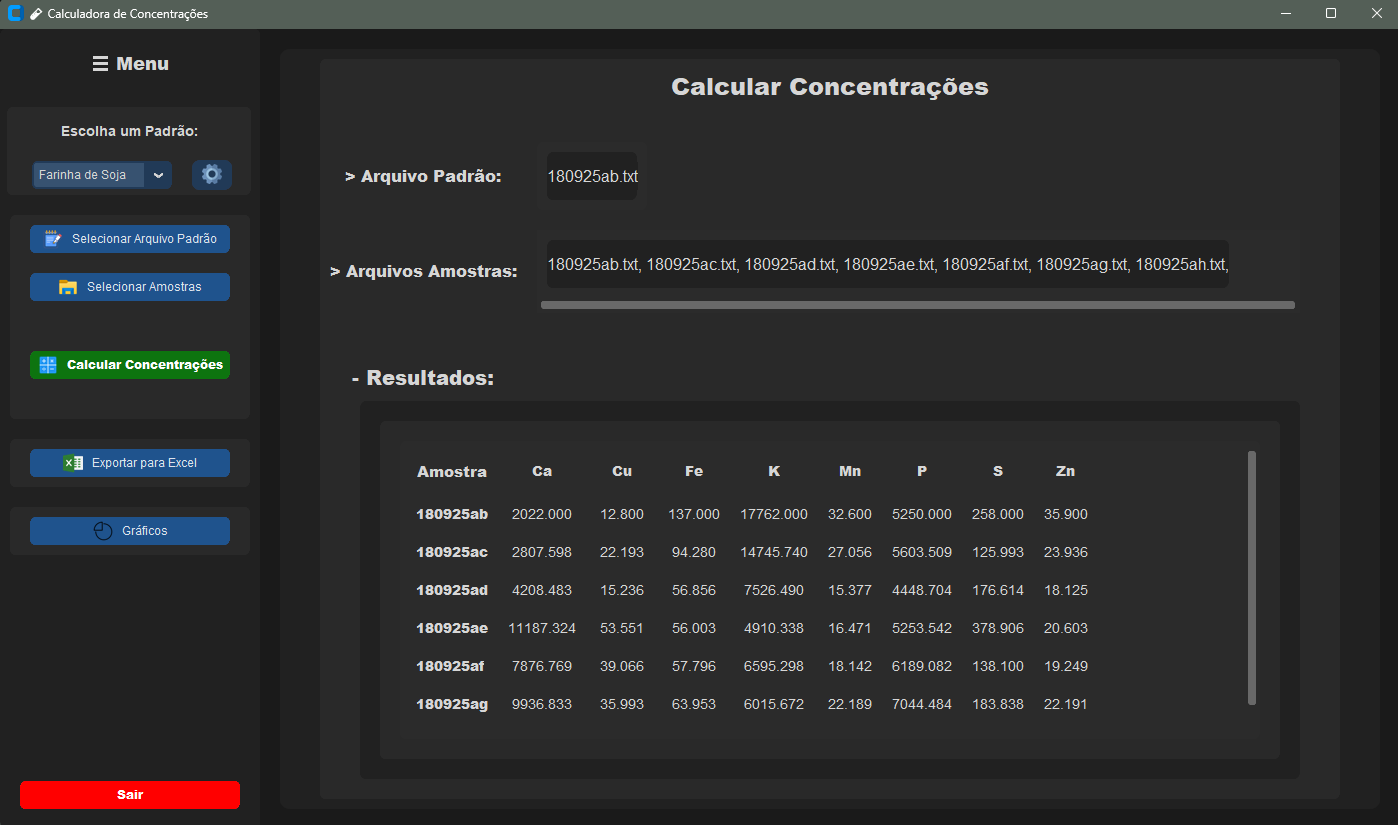
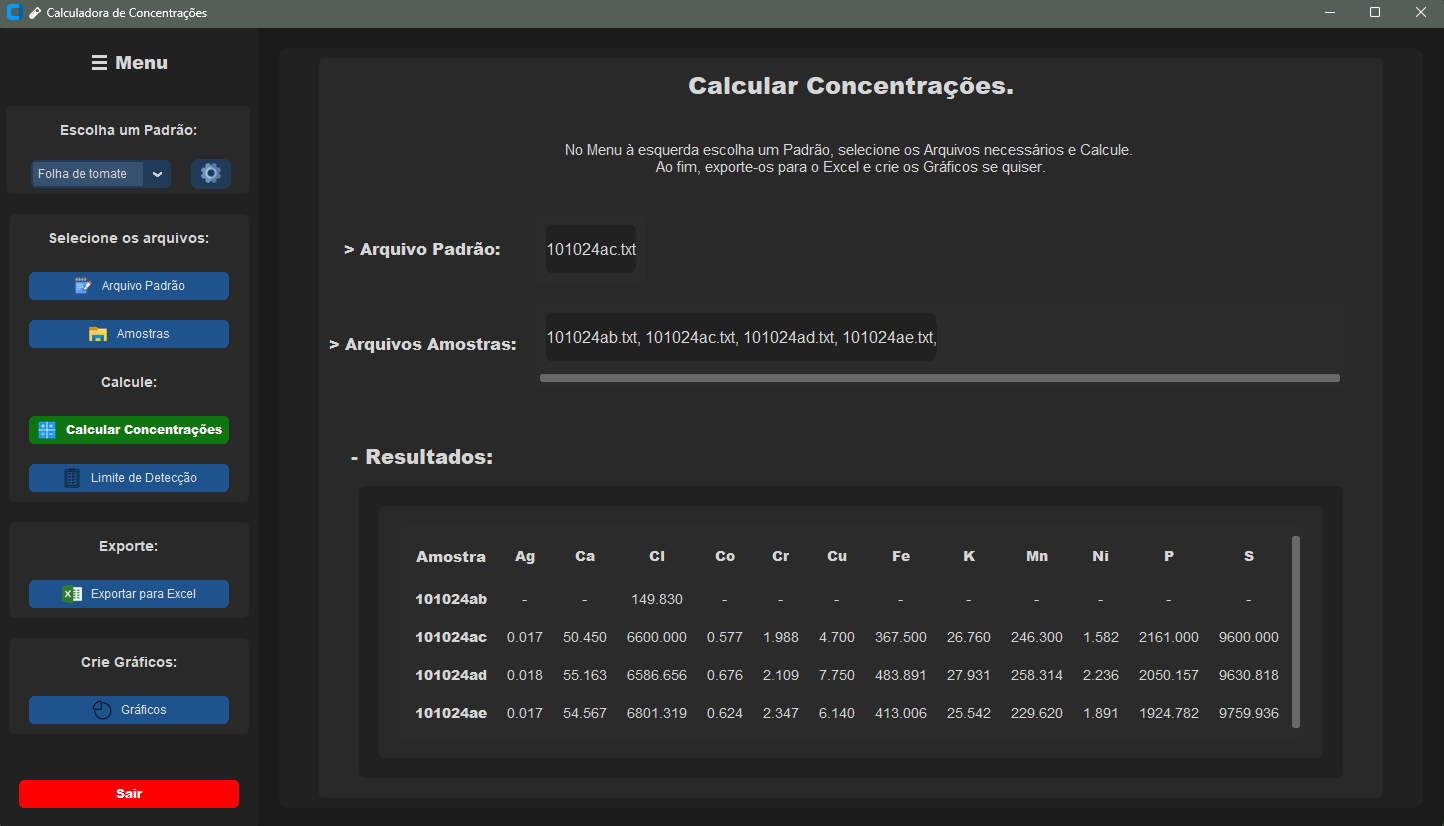
BugExcel

diff --git a/src/models/exportarModel.py b/src/models/exportarModel.py
@@ -243,7 +243,7 @@ class ExportarModel:
             todos_dados.append(["", "", "", "", "", "", "", ""])
 
         df_dados = pd.DataFrame(todos_dados)
-
+        df_dados = df_dados.replace(r'^\s*$', '-', regex=True).fillna('-')
 
         # --- Exportação da análise (Resultados) ---
         analise = {}
@@ -330,9 +330,9 @@ class ExportarModel:
 
             df_analise = pd.DataFrame.from_dict(linhas, orient="index")
             df_analise = df_analise.reindex(columns=pd.MultiIndex.from_tuples(colunas))
-
-
             df_analise.index = list(linhas.keys())
+
+            df_analise = df_analise.replace(r'^\s*$', '-', regex=True).fillna('-')
 
         else:
             df_analise = pd.DataFrame()
@@ -341,6 +341,8 @@ class ExportarModel:
 
         df_concentracoes = df_analise.xs("C", axis=1, level=1)
         df_concentracoes.columns.name = None
+
+        df_concentracoes = df_concentracoes.replace(r'^\s*$', '-', regex=True).fillna('-')
 
         os.makedirs("tabela-excel", exist_ok=True)
         caminho_arquivo = os.path.join("tabela-excel", "amostras.xlsx")
@@ -369,7 +371,7 @@ class ExportarModel:
                 worksheet = writer.sheets["Resultados"]
 
                 # escreve "LD" na primeira coluna
-                worksheet.write(1, 0, "LD")
+                #worksheet.write(1, 0, "LD")
 
                 col = 1
 
@@ -383,22 +385,24 @@ class ExportarModel:
                         titulo = elemento
 
                     # linha 0 -> elemento
-                    worksheet.merge_range(0, col, 0, col + 1, titulo)
+                    #worksheet.merge_range(0, col, 0, col + 1, titulo)
 
                     # linha 1 -> valor do LD
                     ld = ""
                     if ld_resultado:
                         ld_bruto = ld_resultado.get(nome_padrao, {}).get(elemento, "")
                         ld = self.formatar_ld(ld_bruto)
+                        if ld == "":
+                            ld = "-"
 
-                    worksheet.merge_range(1, col, 1, col + 1, ld)
+                    #worksheet.merge_range(1, col, 1, col + 1, ld)
 
                     # linha 2 -> C / Erro
-                    worksheet.write(2, col, "C")
-                    worksheet.write(2, col + 1, "Erro")
+                    #worksheet.write(2, col, "C")
+                    #worksheet.write(2, col + 1, "Erro")
 
                     col += 2
-        
+
         try:
             _salvar_excel(caminho_arquivo)
         except PermissionError:
@@ -407,11 +411,8 @@ class ExportarModel:
             caminho_arquivo = os.path.join("tabela-excel", f"amostras_{timestamp}.xlsx")
             _salvar_excel(caminho_arquivo)
 
-
-
         print("Exportacao concluida!")
         self.mostrar_popup_sucesso(caminho_arquivo)
-
 
     def mostrar_popup_sucesso(self, caminho_arquivo):
         popup = ctk.CTkToplevel()

diff --git a/src/views/concentracaoView.py b/src/views/concentracaoView.py
@@ -40,7 +40,6 @@ class ConcentracaoView(ctk.CTkFrame):
         )
         self.calcular.pack(pady=10, fill="x", padx=20)
 
-
         icone_lista = ctk.CTkImage(light_image=Image.open("imagens/icones/lista.png"), size=(20, 20))
 
         self.botao_limite = ctk.CTkButton(
@@ -53,9 +52,6 @@ class ConcentracaoView(ctk.CTkFrame):
             compound="left"
         )
         self.botao_limite.pack(pady=10, fill="x", padx=20)
-
-
-
 
 class ConcentracaoResultadoView(ctk.CTkFrame):
     def __init__(self, master):
@@ -97,7 +93,7 @@ class ConcentracaoResultadoView(ctk.CTkFrame):
                 )
                 # valores por elemento
                 for col, elemento in enumerate(todos_elementos, start=1):
-                    valor = elementos.get(elemento, "-")
+                    valor = elementos.get(elemento, "---")
                     ctk.CTkLabel(self.scroll, text=str(valor), font=("Arial", 14)).grid(
                         row=row, column=col, padx=10, pady=5
                     )
